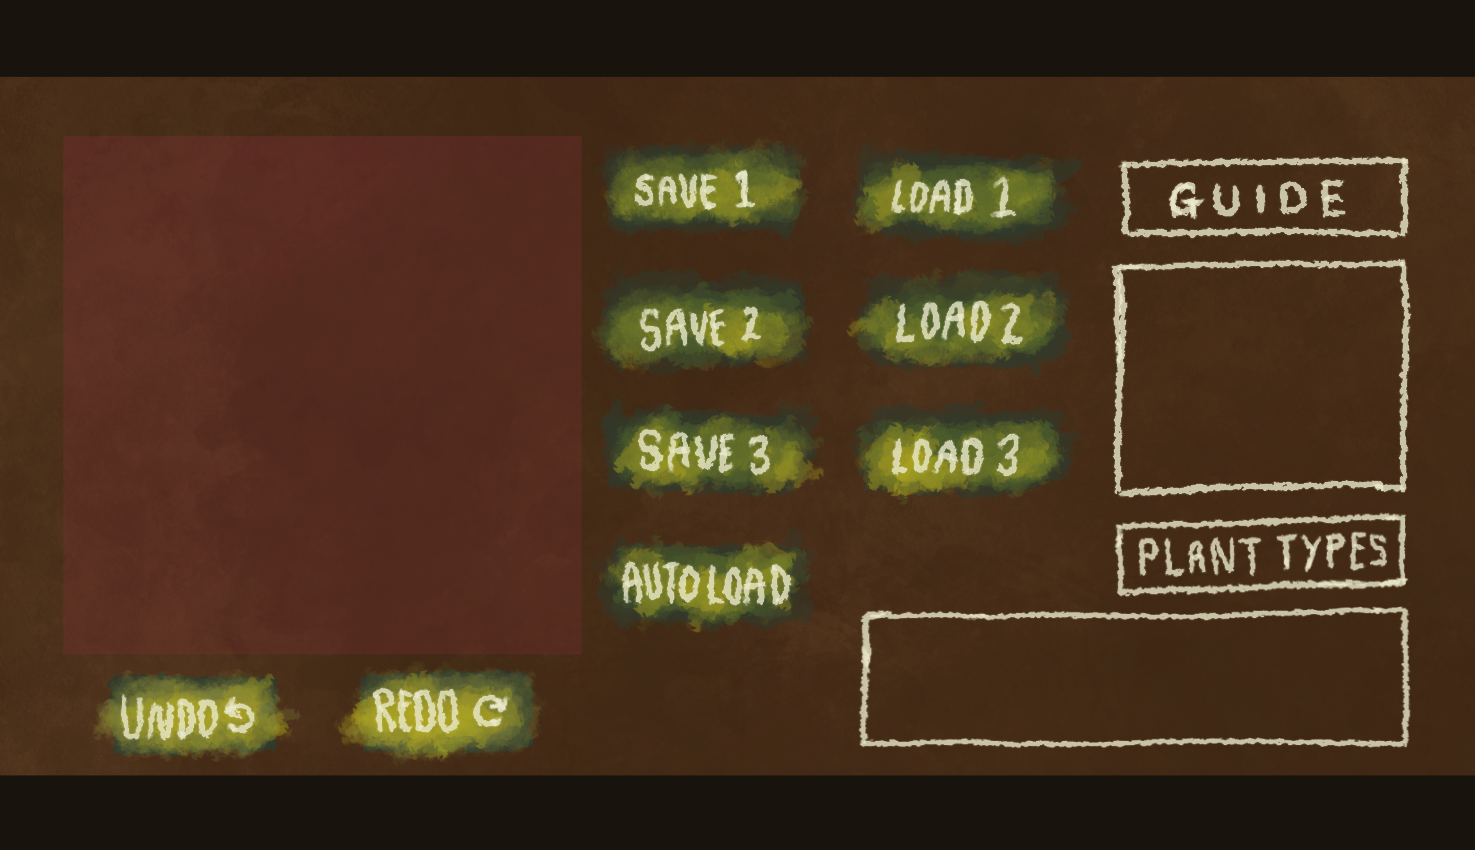
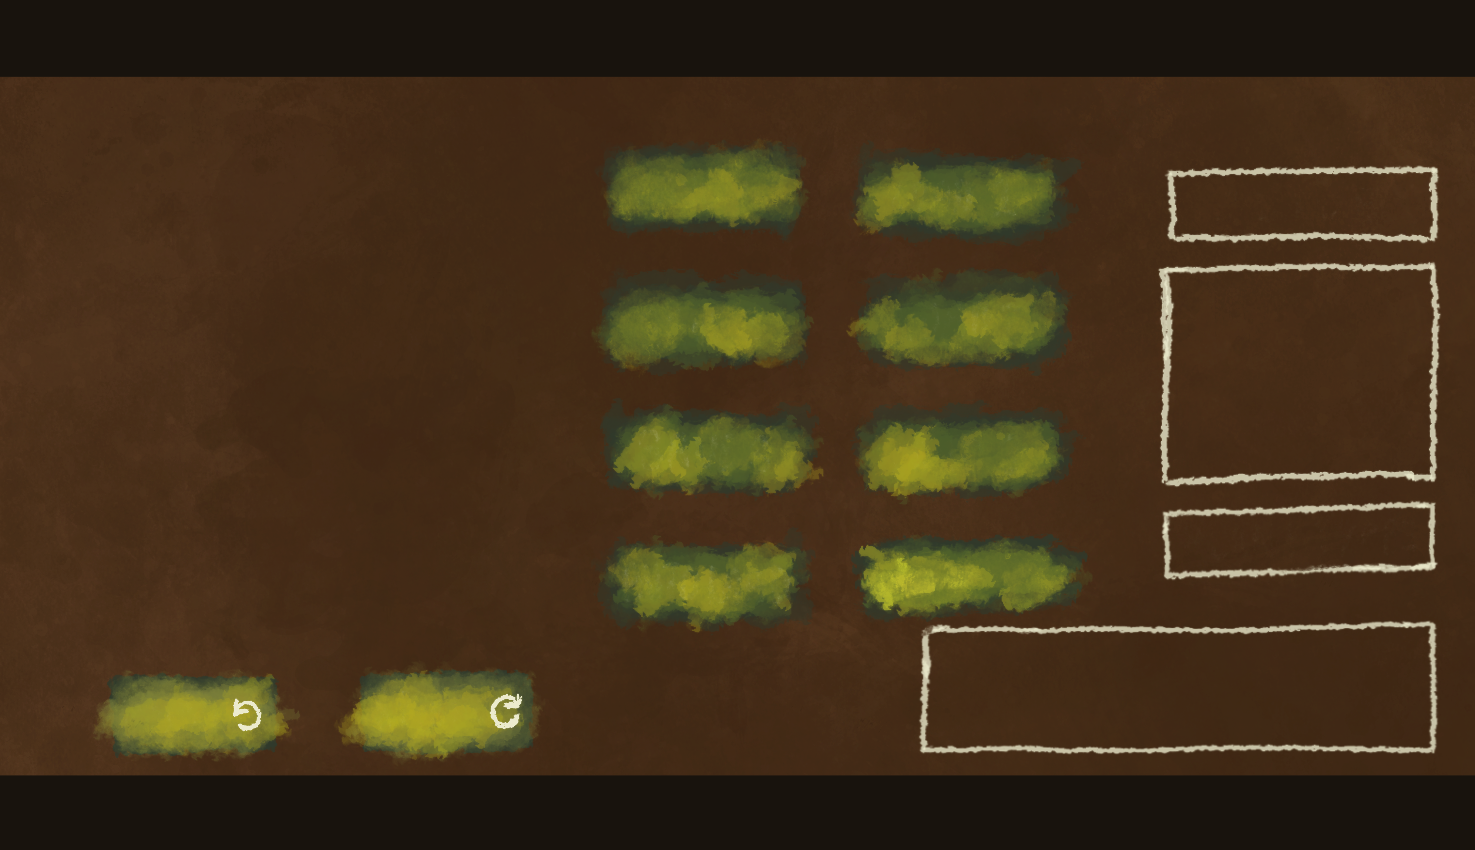
style fix

diff --git a/src/style.css b/src/style.css
@@ -54,6 +54,6 @@ button {
   z-index: 999;
   position: absolute;
   background: transparent; /* Make the button clear */
-  color: transparent; /* Set font color to white */
+  color: wheat; /* Set font color to white */
   font-size: 30px; /* Adjust font size as needed */
 }
